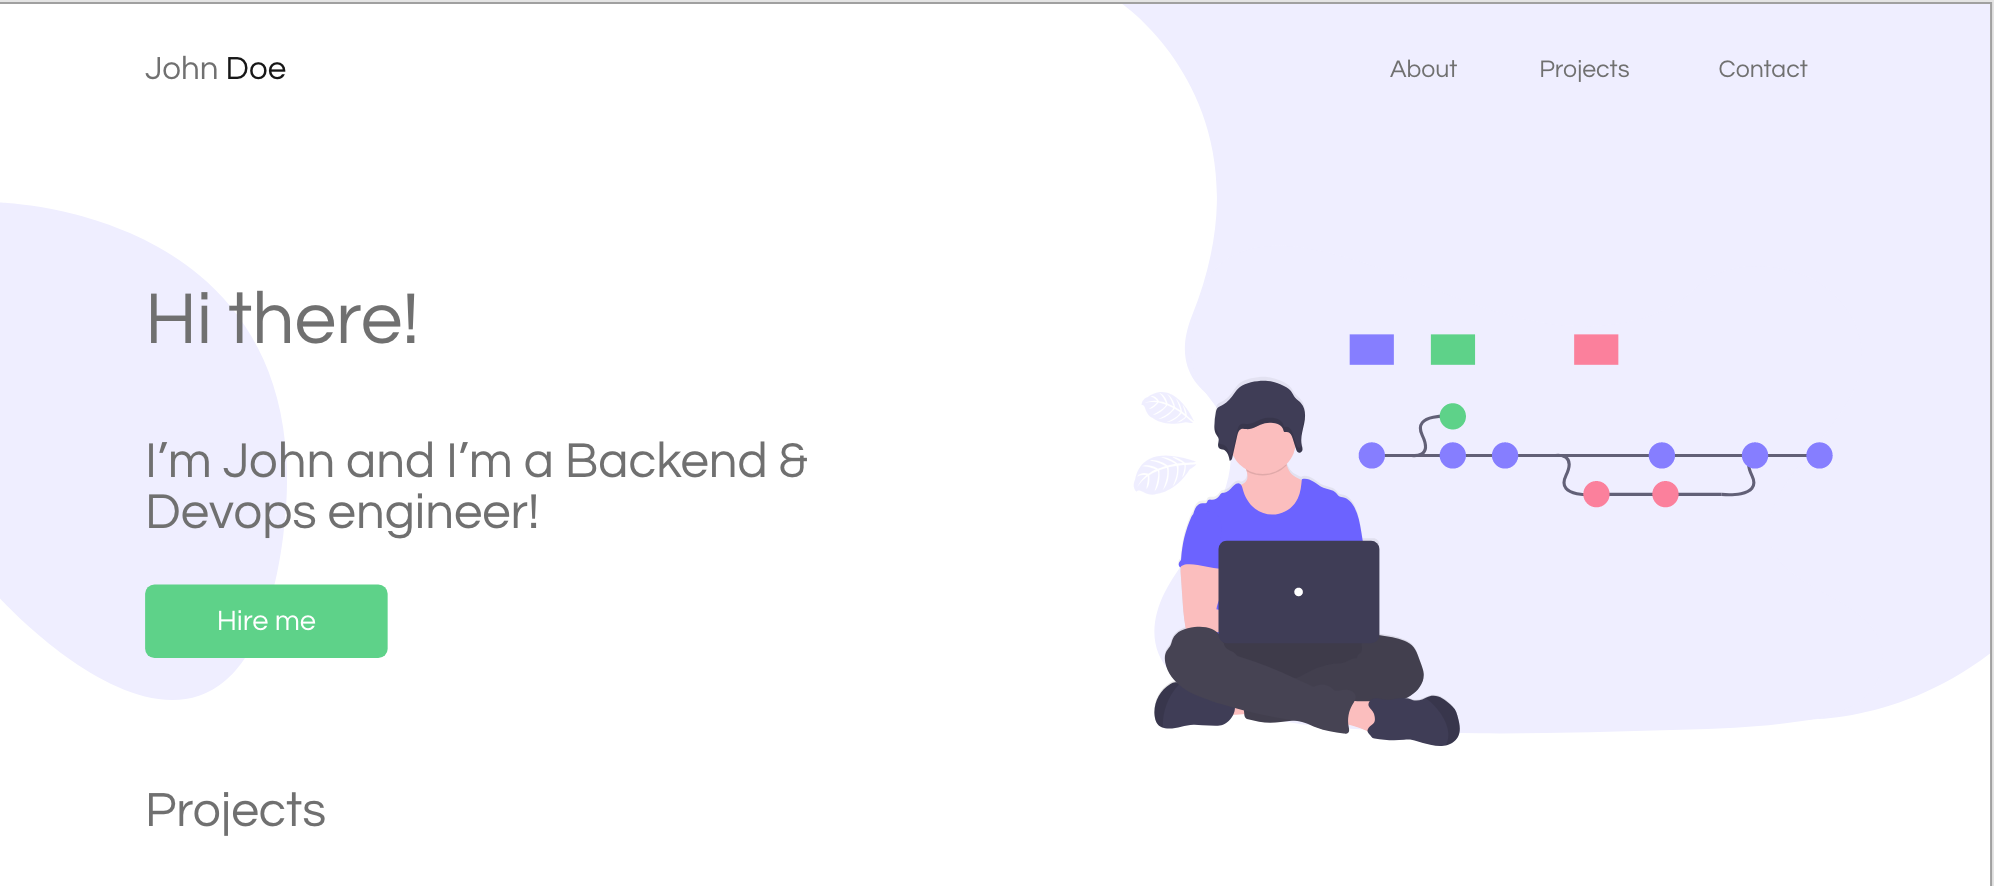
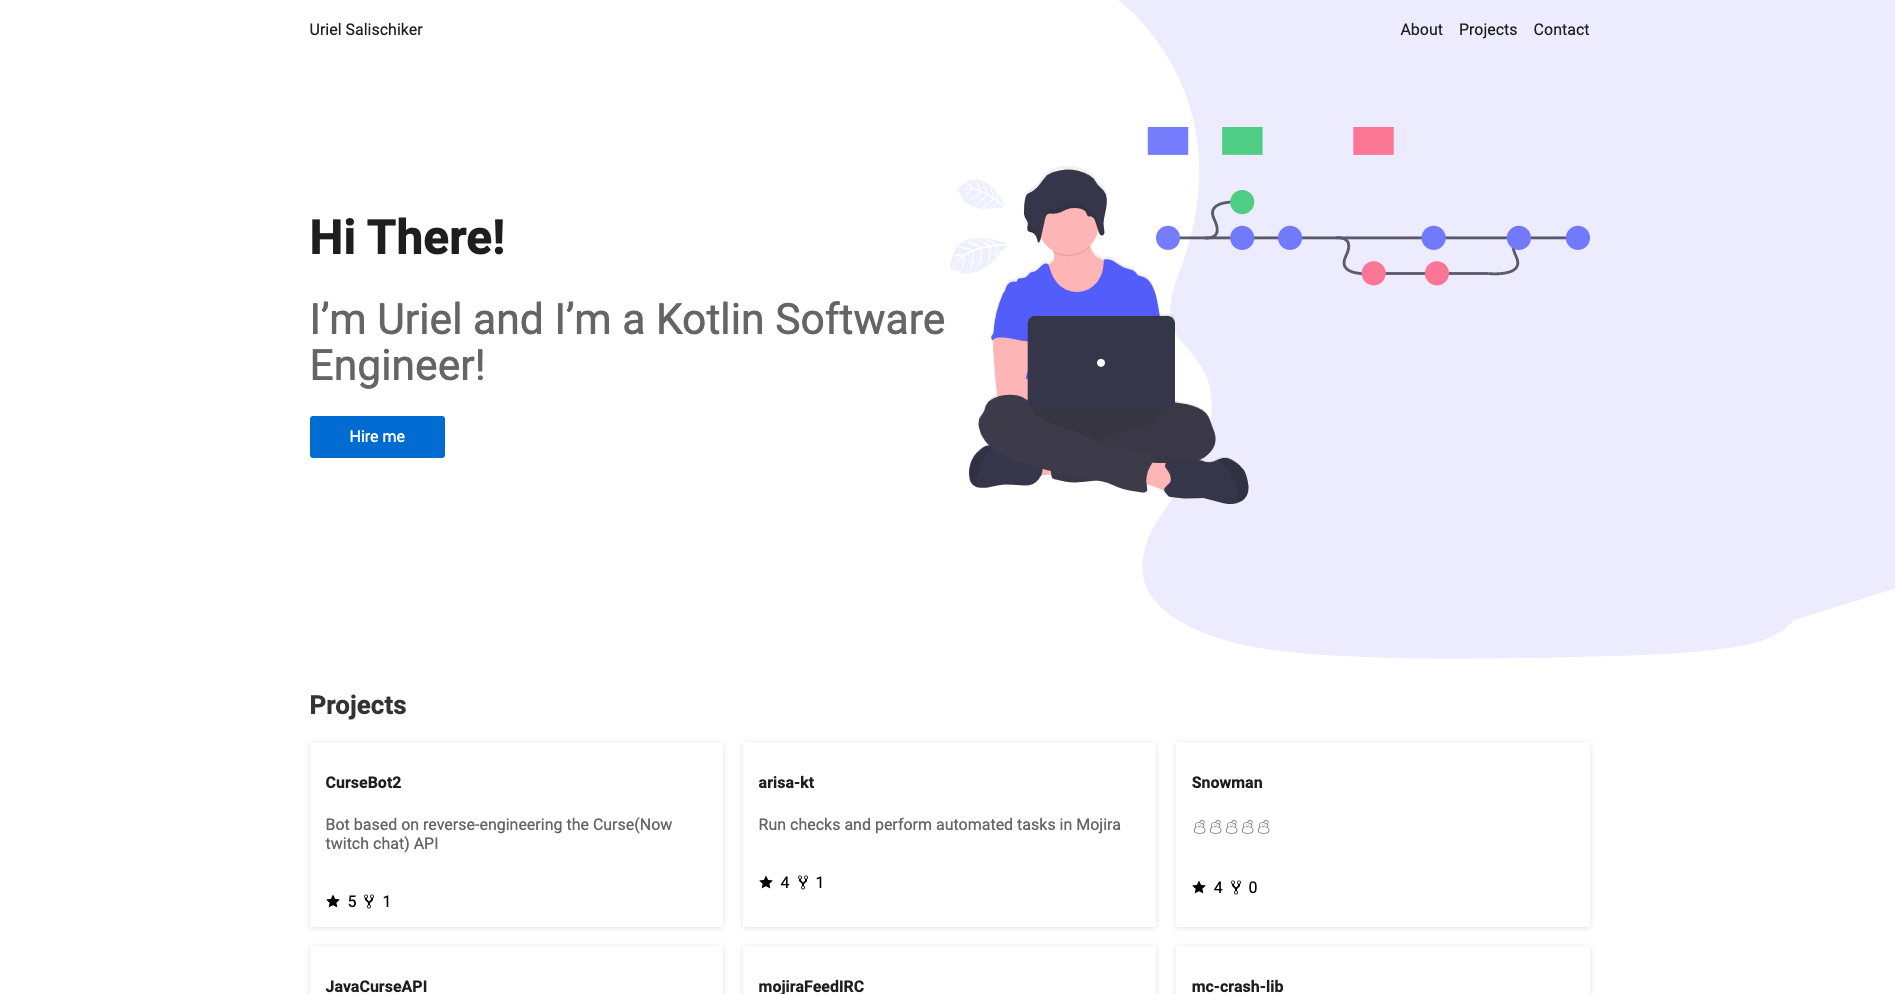
Customize

diff --git a/src/data/config.js b/src/data/config.js
@@ -1,34 +1,32 @@
 module.exports = {
-  defaultTitle: 'John Doe',
+  defaultTitle: 'Uriel Salischiker',
   logo: 'https://portfolio.smakosh.com/favicon/favicon-512.png',
-  author: 'John Doe',
-  url: 'https://portfolio.smakosh.com',
-  legalName: 'John Doe',
-  defaultDescription: 'I’m John and I’m a Backend & Devops engineer!',
+  author: 'Uriel Salischiker',
+  url: 'https://urielsalis.com',
+  legalName: 'Uriel Salischiker',
+  defaultDescription: 'Kotlin Software Engineer',
   socialLinks: {
-    twitter: 'http://www.twitter.com/smakosh',
-    github: 'https://github.com/smakosh',
-    linkedin: 'https://www.linkedin.com/in/ismail-ghallou-630149122/',
-    instagram: 'https://instagram.com/smakosh19',
-    youtube: 'https://www.youtube.com/user/smakoshthegamer',
-    google: 'https://plus.google.com/u/0/+IsmailSmakoshGhallou',
+    twitter: 'http://www.twitter.com/urielsalis',
+    github: 'https://github.com/urielsalis',
+    linkedin: 'https://www.linkedin.com/in/urielsalis/',
   },
-  googleAnalyticsID: 'UA-88875900-4',
+
+  googleAnalyticsID: 'UA-57812985-4',
   themeColor: '#6b63ff',
   backgroundColor: '#6b63ff',
   social: {
     facebook: 'appId',
-    twitter: '@smakosh',
+    twitter: '@urielsalis',
   },
   address: {
-    city: 'City',
-    region: 'Region',
-    country: 'Country',
-    zipCode: 'ZipCode',
+    city: 'Barcelona',
+    region: 'Barcelona',
+    country: 'Spain',
+    zipCode: '08028',
   },
   contact: {
-    email: 'email',
-    phone: 'phone number',
+    email: 'uriel@urielsalis.com',
+    phone: '675995017',
   },
-  foundingDate: '2018',
+  foundingDate: '1999',
 };

diff --git a/src/components/common/SEO/index.jsx b/src/components/common/SEO/index.jsx
@@ -41,10 +41,8 @@ export const SEO = ({ title = defaultTitle, description = defaultDescription, lo
 		},
 		"sameAs": [
 			"${socialLinks.twitter}",
-			"${socialLinks.google}",
 			"${socialLinks.youtube}",
 			"${socialLinks.linkedin}",
-			"${socialLinks.instagram}",
 			"${socialLinks.github}"
 		]
   	}`;
@@ -54,7 +52,7 @@ export const SEO = ({ title = defaultTitle, description = defaultDescription, lo
       <meta name="description" content={description} />
       <meta name="image" content={Thumbnail} />
 
-      <meta property="og:url" content={`${url}${location}/?ref=smakosh.com`} />
+      <meta property="og:url" content={`${url}${location}/?ref=urielsalis.com`} />
       <meta property="og:type" content="website" />
       <meta property="og:title" content={title} />
       <meta property="og:description" content={description} />

diff --git a/src/components/theme/Footer/index.jsx b/src/components/theme/Footer/index.jsx
@@ -7,15 +7,15 @@ export const Footer = () => (
   <Wrapper>
     <Flex as={Container}>
       <Details>
-        <h2>John Doe</h2>
+        <h2>Uriel Salischiker</h2>
         <span>
           © All rights are reserved | {new Date().getFullYear()} | Made with{' '}
           <span aria-label="love" role="img">
             💖
           </span>{' '}
           by{' '}
-          <a href="https://smakosh.com/?ref=portfolio-dev" rel="noopener noreferrer" target="_blank">
-            Smakosh
+          <a href="https://urielsalis.com" rel="noopener noreferrer" target="_blank">
+            Urielsalis
           </a>
         </span>
       </Details>

diff --git a/src/components/landing/Intro/index.jsx b/src/components/landing/Intro/index.jsx
@@ -11,13 +11,13 @@ export const Intro = () => (
     <IntroWrapper as={Container}>
       <Details>
         <h1>Hi There!</h1>
-        <h4>I’m John and I’m a JAMStack engineer!</h4>
+        <h4>I’m Uriel and I’m a Kotlin Software Engineer!</h4>
         <Button as={AnchorLink} href="#contact">
           Hire me
         </Button>
       </Details>
       <Thumbnail>
-        <img src={dev} alt="I’m John and I’m a JAMStack engineer!" />
+        <img src={dev} alt="I’m Uriel and I’m a Kotlin Software Engineer!" />
       </Thumbnail>
     </IntroWrapper>
   </Wrapper>

diff --git a/src/components/landing/Contact/index.jsx b/src/components/landing/Contact/index.jsx
@@ -10,7 +10,7 @@ export const Contact = () => (
       <ContactForm />
     </Details>
     <Thumbnail>
-      <img src={contact} alt="I’m John and I’m a Backend & Devops engineer!" />
+      <img src={contact} alt="I’m Uriel and I’m a Kotlin Software Engineer!" />
     </Thumbnail>
   </Wrapper>
 );

diff --git a/src/components/theme/Header/Navbar/index.jsx b/src/components/theme/Header/Navbar/index.jsx
@@ -6,7 +6,7 @@ import { Wrapper } from './styles';
 
 const Navbar = () => (
   <Wrapper as={Container}>
-    <Link to="/">John Doe</Link>
+    <Link to="/">Uriel Salischiker</Link>
     <NavbarLinks desktop />
   </Wrapper>
 );
